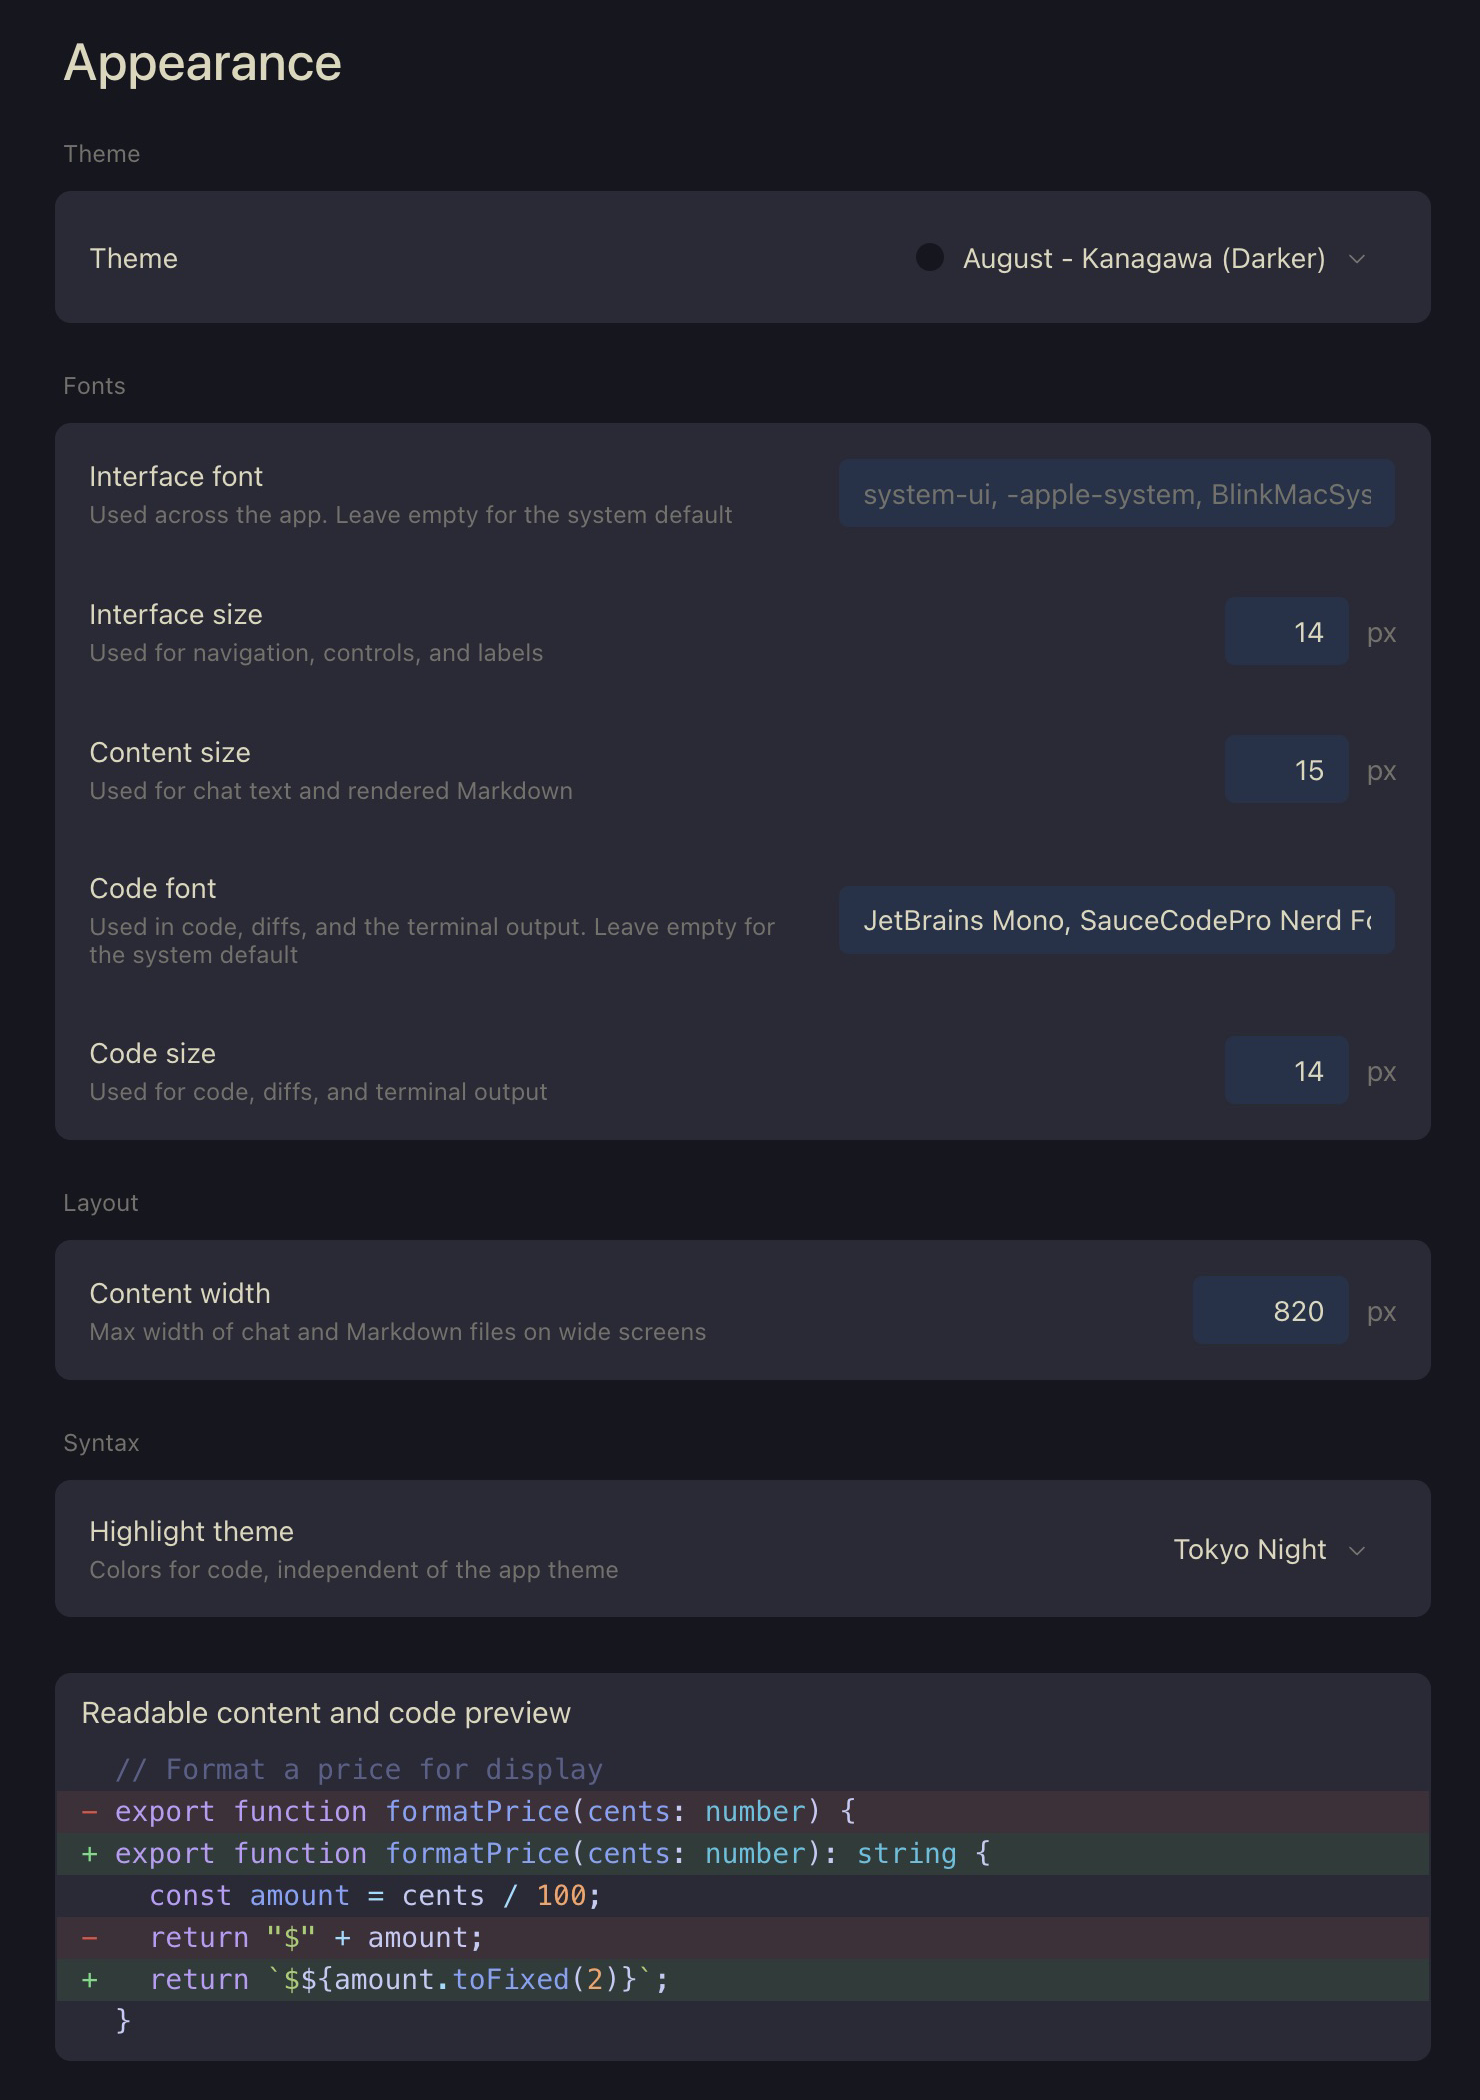
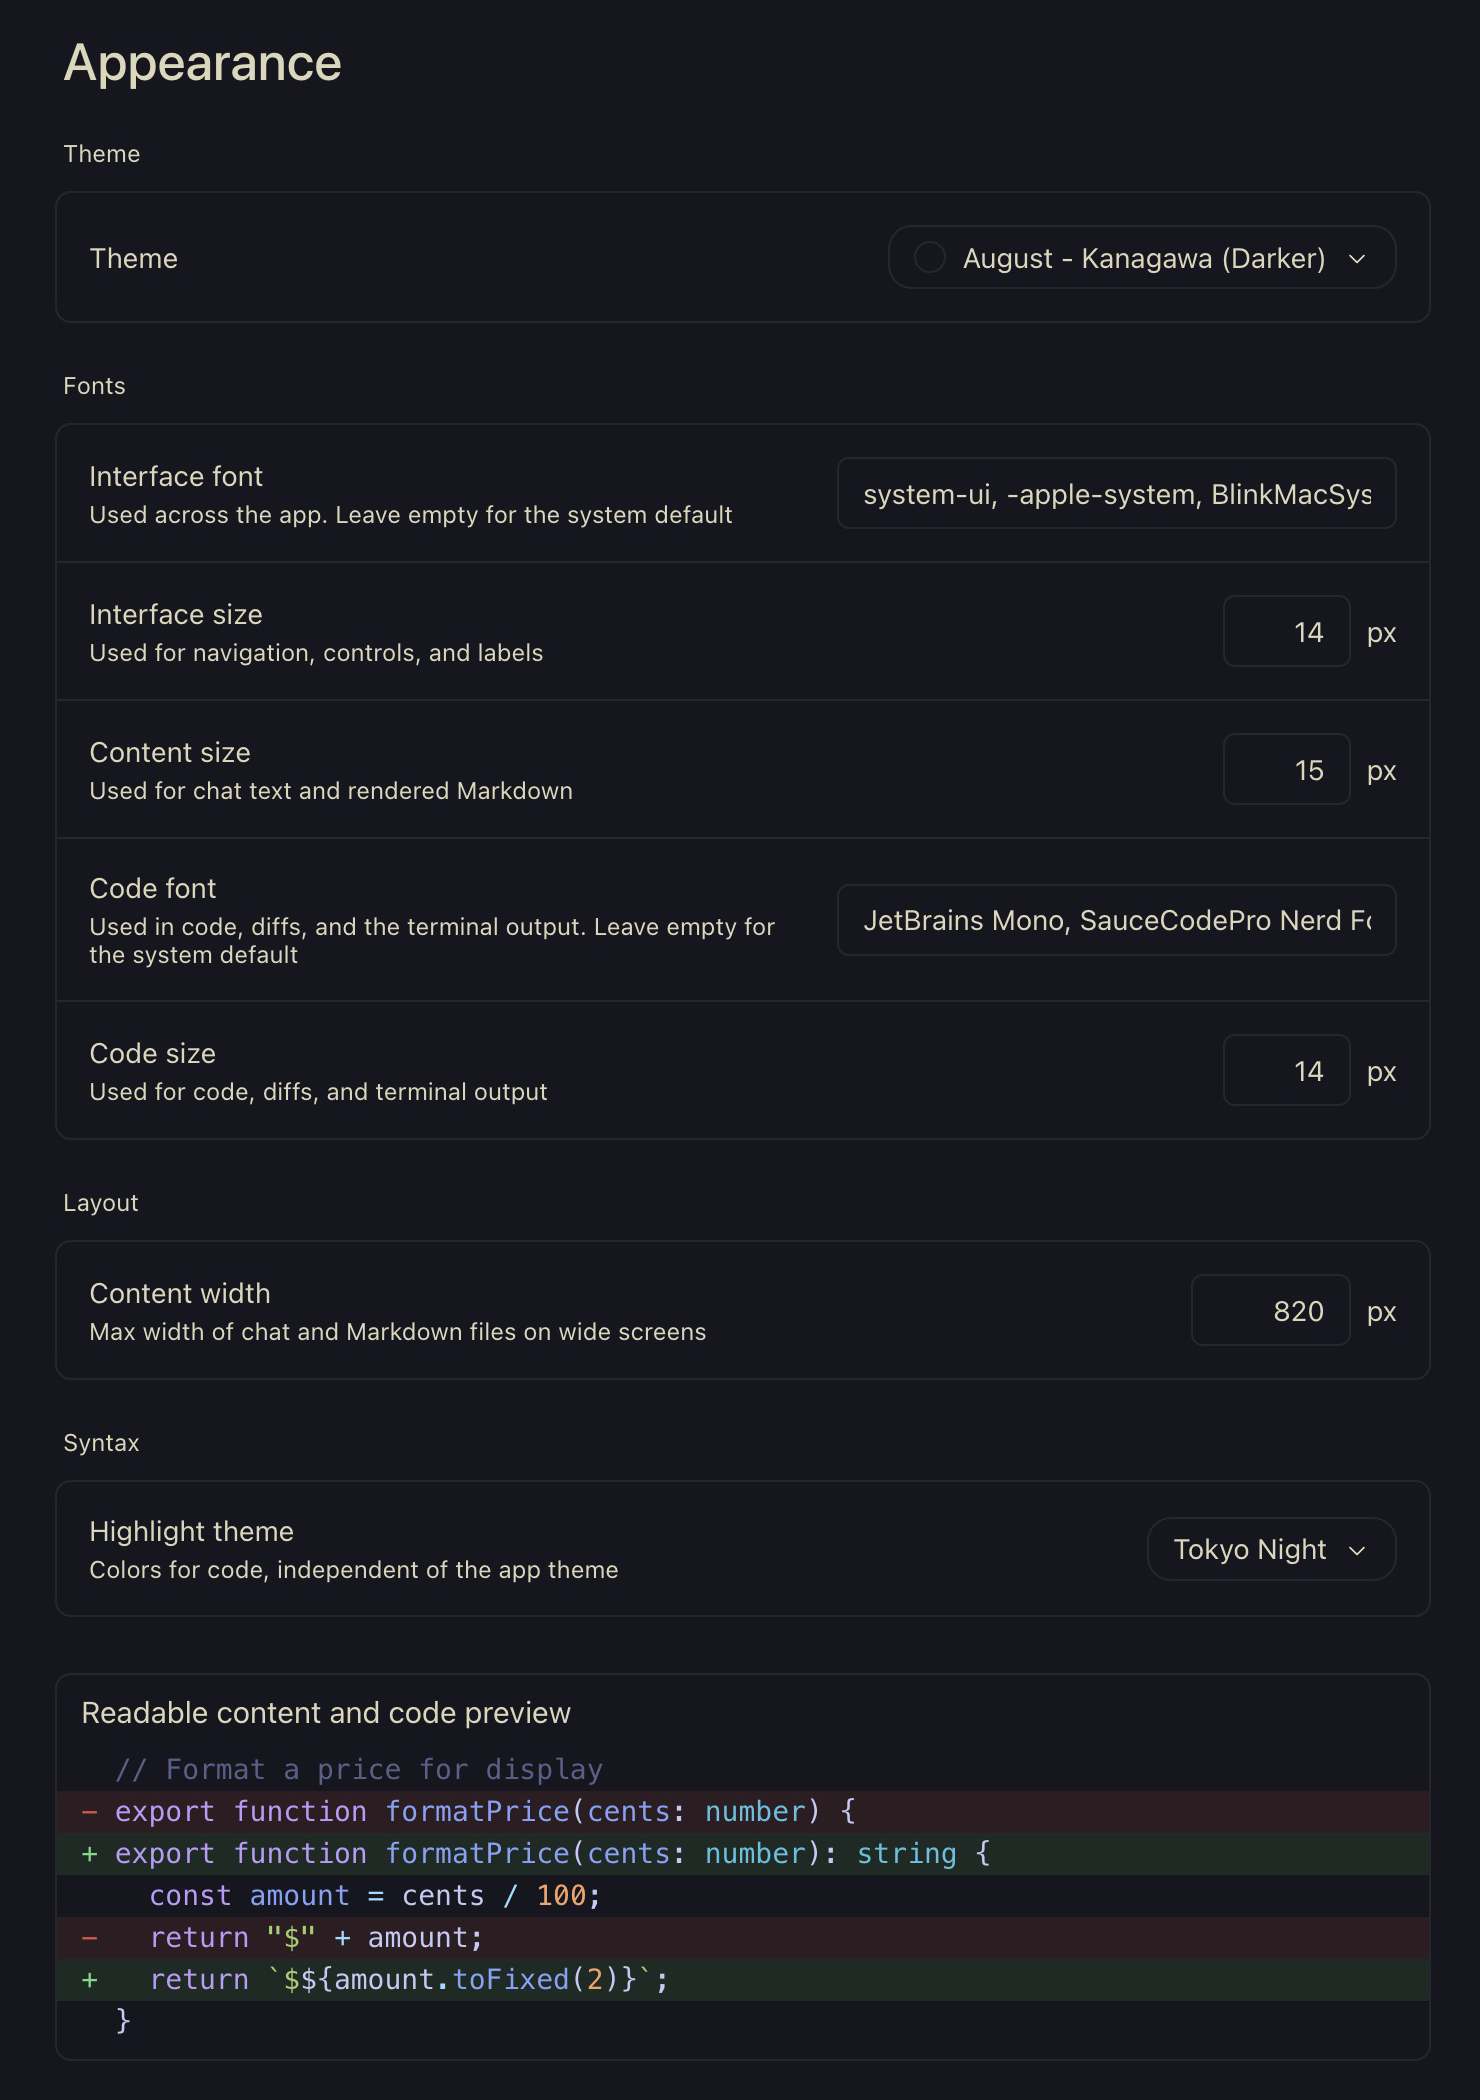
Match VS Code interface palette and refresh screenshot

diff --git a/index.client.ts b/index.client.ts
@@ -10,11 +10,14 @@ export default function contribute(client: PluginClientContext) {
     colors: {
       background: "#16161e",
       foreground: "#dcd7ba",
-      raised: "#2a2a37",
-      control: "#223249",
-      border: "#2a2a37",
+      // Paseo also uses raised for the workspace, and control for ordinary inputs.
+      // VS Code's suggestion/selection colors would brighten these whole surfaces.
+      raised: "#16161e",
+      control: "#16161e",
+      border: "#ffffff12",
       accent: "#658594",
-      mutedForeground: "#727169",
+      mutedForeground: "#dcd7ba",
+      // This also colors extra-muted text and terminal bright black; keep it opaque.
       ring: "#54546d",
     },
   });

diff --git a/README.md b/README.md
@@ -32,14 +32,16 @@ paseo plugin remove august-kanagawa
 | --- | --- | --- |
 | Background | `#16161e` | `editor.background` |
 | Foreground | `#dcd7ba` | `editor.foreground` |
-| Raised surfaces | `#2a2a37` | `editorSuggestWidget.background` |
-| Controls | `#223249` | `editor.selectionBackground` |
-| Borders | `#2a2a37` | `editorHoverWidget.border` |
+| Workspace and raised surfaces | `#16161e` | `editor.background`, `sideBar.background` |
+| Controls | `#16161e` | `input.background`, `dropdown.background` |
+| Borders | `#ffffff12` | Subtle borders from `workbench.colorCustomizations` |
 | Accent | `#658594` | `tab.activeBorderTop` |
-| Muted text | `#727169` | `editorInlayHint.foreground` |
+| Muted UI text | `#dcd7ba` | `descriptionForeground`, `sideBar.foreground` |
 | Focus ring | `#54546d` | `editorLineNumber.foreground` |
 
-Paseo derives interface, terminal, diff and status colors from the semantic palette. Code highlighting has a separate Appearance setting. This is a palette adaptation; it does not reproduce all VS Code token colors or user overrides. It does not patch the app or contribute server code.
+Paseo uses the raised color for its workspace and the control color for ordinary inputs as well as selected sidebar rows. These stay dark to match VS Code's main surfaces; selection and hover states cannot be mapped independently through the eight-color API.
+
+This plugin controls app surfaces, primary and muted UI text, accents, and terminal background/foreground. Code highlighting has a separate Appearance setting; Paseo 0.12 offers no native plugin contribution for Kanagawa syntax colors. Terminal ANSI colors, diff/status colors and terminal selection colors remain Paseo's defaults. The focus-ring color also controls extra-muted text and terminal bright black, so it stays opaque rather than copying VS Code's transparent focus border. This is an interface-palette adaptation, not a complete VS Code color-theme port. It does not patch the app or contribute server code.
 
 ## Matching VS Code typography
 

diff --git a/OVERVIEW.md b/OVERVIEW.md
@@ -1,5 +1,7 @@
 August Kanagawa Theme adds **August - Kanagawa (Darker)** to Paseo's app themes. It adapts the August Themes palette for VS Code, with a near-black background, warm off-white text and muted blue accents.
 
-Requires Paseo 0.12.x with plugins enabled on the host. Select the theme under Settings → Appearance. The palette colors the app surfaces, terminal, diffs and status indicators through Paseo's native theme system. Code highlighting remains controlled by the separate Highlight theme setting; this plugin does not reproduce every VS Code syntax color. Font family and size are also separate app preferences and are not changed by the plugin.
+Requires Paseo 0.12.x with plugins enabled on the host. Select the theme under Settings → Appearance. It sets dark app surfaces, warm primary and secondary text, blue accents, and the terminal background and foreground.
+
+Code highlighting remains controlled by the separate Highlight theme setting. The plugin cannot supply Kanagawa syntax colors, terminal ANSI colors or custom diff/status colors through Paseo 0.12's native theme API. Font family and size are also separate app preferences and are not changed by the plugin. This is an interface-palette adaptation rather than a complete VS Code color-theme port.
 
 The plugin only registers a color palette. It does not read files, start processes, make network requests or require accounts, credentials or additional software.
